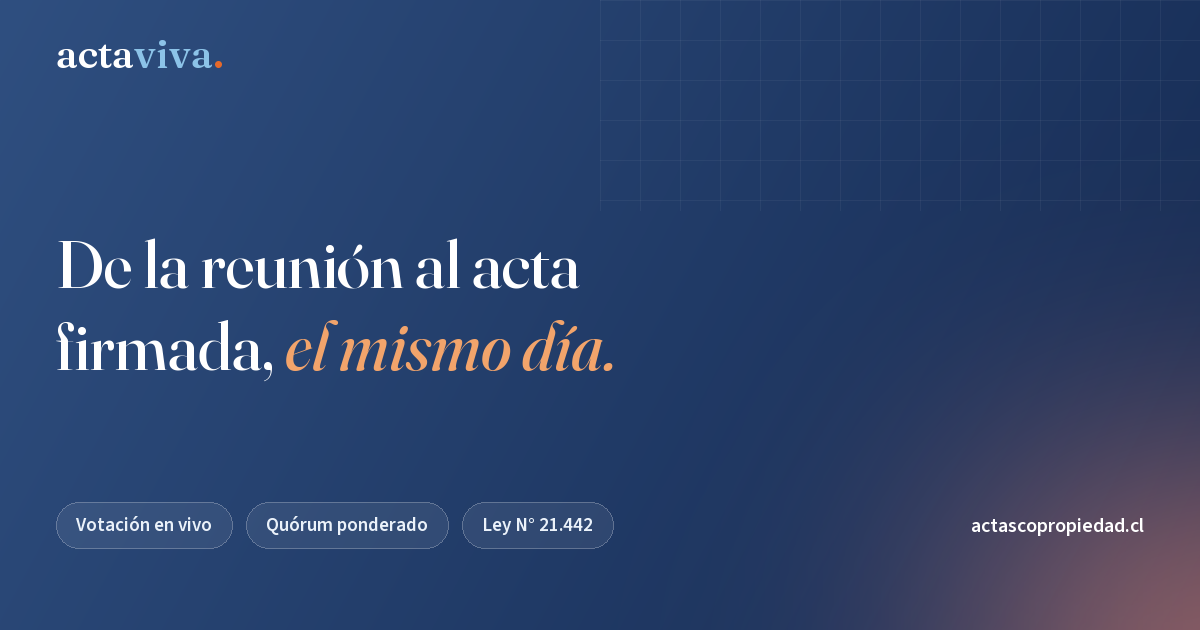
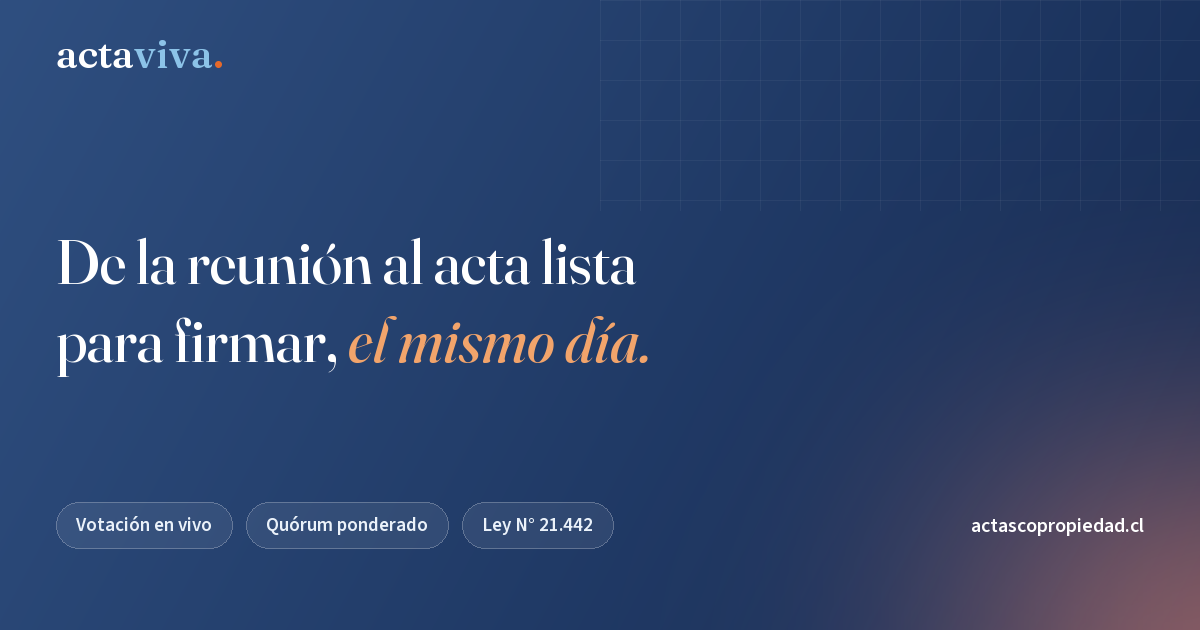
Precision juridica en los textos, tras revision legal externa
Doce correcciones de una revision juridica de los textos publicados
(Ley 21.442 y su Reglamento). El criterio comun: la plataforma genera
documentos y aplica reglas de calculo, pero no certifica legalidad ni
acredita identidades, y los textos no deben insinuar lo contrario.

- "acta firmada, el mismo dia" -> "acta LISTA PARA FIRMAR": la firma no
  depende de la plataforma, y la ley concede hasta 30 dias para ella.
- "redacta el acta conforme a la ley" -> "genera el acta con la
  estructura prevista en la Ley N° 21.442". Tambien en metadatos.
- "Solo votan los habiles" -> "Votan quienes figuran como habiles en el
  padron": esa calidad la acredita la administracion, no el sistema.
- "Firmas del comite y de la administracion" -> "Espacio para las firmas
  que exige la ley": la ley no exige la del administrador como regla.
- "Un documento, no un borrador" -> "Un acta lista para revisar y
  firmar": sin firma sigue pendiente de formalizacion.
- FAQ telematica: se agregan las condiciones del reglamento de
  copropiedad y las exigencias de identificacion del Reglamento.
- "vota con su RUT" -> "ingresa con su RUT y su voto se asocia al padron
  cargado por la administracion": el RUT asocia, no acredita.
- Ejemplo de la consulta: "51% de los derechos" -> "el quorum exigido
  para esta materia", para no insinuar una regla general.
- FAQ mas riesgosa: "¿El acta cumple con la Ley? Si" -> "¿Esta disenada
  conforme a la Ley? Si", con lo que el sistema realmente hace.
[…]

Changed region(s): [[0.0308, 0.5127, 0.555, 0.6032], [0.0617, 0.3921, 0.555, 0.4825]]

diff --git a/index.html b/index.html
@@ -4,7 +4,7 @@
 <head>
 <meta charset="UTF-8">
 <meta name="viewport" content="width=device-width, initial-scale=1.0">
-<meta name="description" content="Genere actas de asamblea de copropietarios conforme a la Ley N° 21.442, con votación en vivo desde el teléfono. Sin instalar nada.">
+<meta name="description" content="Genere actas de asamblea de copropietarios con la estructura prevista en la Ley N° 21.442, con votación en vivo desde el teléfono. Sin instalar nada.">
 <title>actaviva · Actas de asamblea y votación en vivo · Ley N° 21.442</title>
 <link rel="canonical" href="https://actascopropiedad.cl/">
 <meta name="theme-color" content="#1E3A6E">
@@ -14,7 +14,7 @@
 <meta property="og:locale" content="es_CL">
 <meta property="og:url" content="https://actascopropiedad.cl/">
 <meta property="og:title" content="actaviva · Actas de asamblea y votación en vivo">
-<meta property="og:description" content="Arme el acta de su asamblea, reciba los votos en vivo desde el teléfono y obtenga un documento listo para firmar. Conforme a la ley, sin instalar nada.">
+<meta property="og:description" content="Arme el acta de su asamblea, reciba los votos en vivo desde el teléfono y obtenga un documento listo para revisar y firmar. Sin instalar nada.">
 <meta property="og:image" content="https://actascopropiedad.cl/og.png">
 <meta property="og:image:width" content="1200">
 <meta property="og:image:height" content="630">
@@ -466,7 +466,7 @@
       "applicationCategory": "BusinessApplication",
       "operatingSystem": "Web",
       "inLanguage": "es-CL",
-      "description": "Genere actas de asamblea de copropietarios conforme a la Ley N° 21.442, con votación en vivo desde el teléfono. Sin instalar nada.",
+      "description": "Genere actas de asamblea de copropietarios con la estructura prevista en la Ley N° 21.442, con votación en vivo desde el teléfono. Sin instalar nada.",
       "offers": [
         { "@type": "Offer", "name": "Acta de asamblea con votación en vivo", "price": "14990", "priceCurrency": "CLP", "priceValidUntil": "2027-12-31" },
         { "@type": "Offer", "name": "Consulta por escrito", "price": "7990", "priceCurrency": "CLP", "priceValidUntil": "2027-12-31" }
@@ -476,9 +476,9 @@
       "@type": "FAQPage",
       "mainEntity": [
         { "@type": "Question", "name": "¿Necesito instalar algo o crear una cuenta?", "acceptedAnswer": { "@type": "Answer", "text": "No hay nada que instalar: funciona en el navegador, pero sí necesita una cuenta. Se crea en un minuto: escribe su correo, le llega un código y listo. También puede entrar con su cuenta de Google. La cuenta guarda su avance y le permite volver a sus asambleas." } },
-        { "@type": "Question", "name": "¿Cómo votan los copropietarios?", "acceptedAnswer": { "@type": "Answer", "text": "Usted proyecta un código QR. Cada copropietario entra desde su teléfono, se identifica con su RUT y vota; el resultado se calcula ponderado por los derechos de cada unidad. Solo votan quienes están hábiles." } },
-        { "@type": "Question", "name": "¿Es seguro? ¿Quién ve mis datos?", "acceptedAnswer": { "@type": "Answer", "text": "Su acta se guarda en su cuenta y solo usted puede verla: la restricción está en la base de datos, fila por fila. Los datos de la votación en vivo viajan cifrados y se borran al terminar la asamblea." } },
-        { "@type": "Question", "name": "¿El acta cumple con la Ley N° 21.442?", "acceptedAnswer": { "@type": "Answer", "text": "Sí. El sistema aplica el quórum, las mayorías y los plazos de la ley vigente, y entrega un documento listo para firmar." } },
+        { "@type": "Question", "name": "¿Cómo votan los copropietarios?", "acceptedAnswer": { "@type": "Answer", "text": "Usted proyecta un código QR. Cada participante habilitado ingresa con su RUT y su voto se asocia al padrón cargado por la administración; el resultado se calcula ponderado por los derechos de cada unidad. Votan quienes figuran como hábiles en el padrón." } },
+        { "@type": "Question", "name": "¿Es seguro? ¿Quién ve mis datos?", "acceptedAnswer": { "@type": "Answer", "text": "Su acta se guarda en su cuenta y solo usted puede verla: la restricción está en la base de datos, fila por fila. Los datos de la votación en vivo viajan cifrados; la sala se elimina al cerrarla y, en todo caso, dentro de 48 horas." } },
+        { "@type": "Question", "name": "¿El acta está diseñada conforme a la Ley N° 21.442?", "acceptedAnswer": { "@type": "Answer", "text": "Sí. El sistema aplica los quórums y mayorías según la materia seleccionada y genera el documento a partir de los antecedentes ingresados, listo para revisar y firmar." } },
         { "@type": "Question", "name": "¿Cuánto cuesta?", "acceptedAnswer": { "@type": "Answer", "text": "Acta de asamblea: $14.990 por asamblea, con la votación en vivo incluida. Consulta por escrito: $7.990 por consulta. Acta de reunión del comité: gratis. Impuestos incluidos; sin mensualidad ni suscripción, se paga solo cuando se usa." } }
       ]
     }
@@ -513,8 +513,8 @@
   <div class="wrap hero-inner">
     <div class="hero-copy">
       <span class="hero-eyebrow reveal in">Ley N° 21.442<span class="eb-largo"> · Copropiedad Inmobiliaria</span></span>
-      <h1 class="reveal in">De la reunión al acta<br>firmada, <em>el mismo día.</em></h1>
-      <p class="lead reveal in d1">Usted dirige la asamblea con tranquilidad. El sistema lleva el quórum, cuenta los votos ponderados por derechos y redacta el acta conforme a la ley.</p>
+      <h1 class="reveal in">De la reunión al acta<br>lista para firmar, <em>el mismo día.</em></h1>
+      <p class="lead reveal in d1">Usted dirige la asamblea con tranquilidad. El sistema lleva el quórum, cuenta los votos ponderados por derechos y genera el acta con la estructura prevista en la Ley N° 21.442.</p>
       <div class="hero-cta reveal in d2">
         <a class="btn btn-primary" href="/acta">Comenzar mi acta</a>
         <a class="btn btn-light" href="#como">Ver cómo funciona</a>
@@ -553,9 +553,9 @@
       <div class="vista-copy reveal">
         <span class="eyebrow">Incluida en el acta</span>
         <h2 id="tit-votacion">Nadie cuenta manos <em>levantadas.</em></h2>
-        <p>Proyecte el código QR. Cada copropietario vota desde su asiento con su RUT, el resultado se pondera por derechos al instante y pasa directo al acta.</p>
+        <p>Proyecte el código QR. Cada participante habilitado ingresa con su RUT, su voto se asocia al padrón cargado por la administración y el resultado se pondera por derechos al instante, directo al acta.</p>
         <a class="btn btn-primary" href="/acta">Probar la votación</a>
-        <small class="vista-meta"><span>Solo votan los hábiles</span> <span>Presencial, telemática o mixta</span> <span>Los datos se borran al terminar</span></small>
+        <small class="vista-meta"><span>Votan quienes figuran como hábiles en el padrón</span> <span>Presencial, telemática o mixta</span> <span>La sala se elimina al cerrarla, y en todo caso a las 48 horas</span></small>
       </div>
       <div class="vista-stage reveal d1">
         <div class="vv-panel" aria-hidden="true">
@@ -600,12 +600,12 @@
     <div class="doc-grid">
       <div class="reveal">
         <span class="eyebrow">Esto se lleva</span>
-        <h2 style="margin-bottom:16px">Un documento, <em>no un borrador.</em></h2>
+        <h2 style="margin-bottom:16px">Un acta lista <em>para revisar y firmar.</em></h2>
         <p class="doc-intro">El acta se arma mientras avanza la reunión y queda redactada con la estructura que exige la ley. Usted la revisa, la imprime y la firma.</p>
         <ul class="doc-lista">
           <li><svg aria-hidden="true" viewBox="0 0 24 24"><path d="M20 6L9 17l-5-5"/></svg>Asistencia, derechos y quórum ya calculados</li>
           <li><svg aria-hidden="true" viewBox="0 0 24 24"><path d="M20 6L9 17l-5-5"/></svg>Cada acuerdo con su resultado y su responsable</li>
-          <li><svg aria-hidden="true" viewBox="0 0 24 24"><path d="M20 6L9 17l-5-5"/></svg>Firmas del comité y de la administración</li>
+          <li><svg aria-hidden="true" viewBox="0 0 24 24"><path d="M20 6L9 17l-5-5"/></svg>Espacio para las firmas que exige la ley</li>
         </ul>
         <a class="btn btn-primary" href="/acta" style="margin-top:26px">Comenzar mi acta</a>
       </div>
@@ -643,7 +643,7 @@
           <div class="v-tally"><i class="vt vt1"></i><i class="vt vt2"></i><i class="vt vt3"></i></div>
         </div>
         <h3>Voten desde el teléfono</h3>
-        <p>Proyecte el QR. Cada uno vota con su RUT.</p>
+        <p>Proyecte el QR. Cada participante habilitado ingresa con su RUT.</p>
       </div>
       <div class="step reveal d2">
         <div class="st-scene" aria-hidden="true">
@@ -671,14 +671,14 @@
       <div class="cons-cuerpo">
         <span class="eyebrow">Consulta por escrito</span>
         <h2 id="tit-consulta">Tome acuerdos <em>sin depender de reunir a todos</em> al mismo tiempo</h2>
-        <p>La consulta por escrito permite que los copropietarios aprueben o rechacen una propuesta desde su correo registrado. Las respuestas se contabilizan según sus derechos en el condominio y el acuerdo se aprueba cuando alcanza el quórum exigido para esa materia.</p>
+        <p>La consulta por escrito permite que los copropietarios aprueben o rechacen una propuesta desde el correo registrado en el condominio. Las respuestas se contabilizan según sus derechos en el condominio y el acuerdo se aprueba cuando alcanza el quórum exigido para esa materia.</p>
         <p>Previamente, la propuesta debe presentarse en una sesión informativa, que no requiere quórum mínimo.</p>
         <div class="cons-cuenta">
           <div class="eyebrow" style="margin-bottom:12px">Cómo se cuenta</div>
           <div class="cons-fila"><span>Aprueban</span><b>62,50%</b></div>
           <div class="cons-fila"><span>Rechazan</span><b>12,50%</b></div>
           <div class="cons-fila"><span>Sin responder</span><b>25,00%</b></div>
-          <div class="cons-veredicto"><strong>Aprobado.</strong> Se alcanzó el 51% de los derechos que exige la materia.</div>
+          <div class="cons-veredicto"><strong>Aprobado.</strong> Se alcanzó el quórum exigido para esta materia.</div>
         </div>
         <div class="cons-precio">
           <div>
@@ -704,7 +704,7 @@
         <p style="font-size:16.5px;color:var(--tx2);line-height:1.65;margin:0;max-width:56ch">Los acuerdos del comité de administración también deben quedar registrados en el Libro de Actas. Ingrese lo tratado durante la reunión y obtenga el registro listo para incorporar al libro. <strong style="color:var(--ink)">Sin costo</strong> — solo necesita su cuenta.</p>
       </div>
       <div style="flex:0 0 auto">
-        <a class="btn btn-ink" href="/acta-comite">Escribir el acta del comité</a>
+        <a class="btn btn-ink" href="/acta-comite">Registrar acuerdos del comité</a>
       </div>
     </div>
   </div>
@@ -718,11 +718,11 @@
     </div>
     <div class="faq">
       <details class="reveal"><summary>¿Necesito instalar algo o crear una cuenta?</summary><div>No hay nada que instalar: funciona en el navegador. <strong>Cuenta sí necesita</strong>, y se crea en un minuto: escribe su correo, le llega un código y entra. También puede usar su cuenta de Google. La cuenta guarda su avance, le permite volver a sus asambleas y es donde le llega el comprobante.</div></details>
-      <details class="reveal"><summary>¿Cómo votan los copropietarios?</summary><div>Usted proyecta un QR; cada uno entra con su RUT y vota. El resultado se pondera por derechos al instante. Solo votan los hábiles.</div></details>
-      <details class="reveal"><summary>¿Es seguro? ¿Quién ve mis datos?</summary><div>Su acta se guarda en su cuenta y <strong>solo usted puede verla</strong>: la restricción está en la base de datos, fila por fila. Los datos de la votación viajan cifrados y se borran al terminar la asamblea. Está todo detallado en la <a href="/privacidad">declaración de privacidad</a>.</div></details>
-      <details class="reveal"><summary>¿Sirve para asambleas telemáticas o mixtas?</summary><div>Sí, funciona igual en asambleas presenciales, por videollamada o mixtas.</div></details>
-      <details class="reveal"><summary>¿El acta cumple con la Ley N° 21.442?</summary><div>Sí. Aplica el quórum, las mayorías y los plazos de la ley, y entrega el documento listo para firmar.</div></details>
-      <details class="reveal"><summary>¿Se puede acordar algo sin convocar a asamblea?</summary><div>Sí. El artículo 15 de la Ley N° 21.442 permite la <strong>consulta por escrito</strong>: se expone la propuesta en una sesión informativa previa, se envía la consulta a los correos del Registro de Copropietarios y se fija un plazo para responder. Queda aprobada cuando las respuestas a favor suman el porcentaje de derechos que la ley exige para esa materia. Tratándose de cambios al reglamento, desafectación de bienes comunes o cambio de destino, el acuerdo debe además ser certificado por un notario.</div></details>
+      <details class="reveal"><summary>¿Cómo votan los copropietarios?</summary><div>Usted proyecta un QR; cada participante habilitado ingresa con su RUT y su voto se asocia al padrón cargado por la administración. El resultado se pondera por derechos al instante. Votan quienes figuran como hábiles en el padrón.</div></details>
+      <details class="reveal"><summary>¿Es seguro? ¿Quién ve mis datos?</summary><div>Su acta se guarda en su cuenta y <strong>solo usted puede verla</strong>: la restricción está en la base de datos, fila por fila. Los datos de la votación viajan cifrados; la sala se elimina al cerrarla y, en todo caso, dentro de 48 horas. El acta queda en su cuenta hasta que usted la borre. Está todo detallado en la <a href="/privacidad">declaración de privacidad</a>.</div></details>
+      <details class="reveal"><summary>¿Sirve para asambleas telemáticas o mixtas?</summary><div>Sí. Puede utilizarse en asambleas presenciales, telemáticas o mixtas. En estas últimas deben cumplirse además las condiciones previstas en el reglamento de copropiedad y las exigencias de identificación del Reglamento de la Ley.</div></details>
+      <details class="reveal"><summary>¿El acta está diseñada conforme a la Ley N° 21.442?</summary><div>Sí. El sistema aplica los quórums y mayorías según la materia seleccionada y genera el documento a partir de los antecedentes ingresados, listo para revisar y firmar.</div></details>
+      <details class="reveal"><summary>¿Se puede acordar algo sin convocar a asamblea?</summary><div>Sí. El artículo 15 de la Ley N° 21.442 permite la <strong>consulta por escrito</strong>: se expone la propuesta en una sesión informativa previa, se envía la consulta a los correos del Registro de Copropietarios y se fija un plazo para responder. Queda aprobada cuando las respuestas a favor suman el porcentaje de derechos que la ley exige para esa materia. Cuando la consulta verse sobre las materias señaladas en la letra a) del N° 2 o en el N° 3 del artículo 15, el acuerdo deberá además reducirse a escritura pública.</div></details>
       <details class="reveal"><summary>¿Cuánto cuesta?</summary><div>
         <table class="precios">
           <tr><td>Acta de asamblea <span>incluye la votación en vivo</span></td><td><b>$14.990</b> por asamblea</td></tr>

diff --git a/privacidad.html b/privacidad.html
@@ -224,7 +224,7 @@
     <p class="lede">Qué datos le pedimos, para qué los usamos, con quién los compartimos, cuánto los guardamos y cómo puede pedirnos que los borremos. En preguntas concretas y sin letra chica.</p>
     <div class="meta">
       <span class="sello"><svg aria-hidden="true" viewBox="0 0 24 24" fill="none" stroke="currentColor" stroke-width="2.2" stroke-linecap="round" stroke-linejoin="round"><path d="M12 3l7 4v5c0 4-3 6.6-7 8-4-1.4-7-4-7-8V7z"/></svg>Ley N° 21.719</span>
-      <span>Versión 3 · vigente desde el 20 de agosto de 2026</span>
+      <span>Versión 4 · vigente desde el 27 de agosto de 2026 · preparada bajo la Ley N° 19.628 y los estándares de la Ley N° 21.719, que entra en vigencia el 1 de diciembre de 2026</span>
       <a href="#p14">Ver el historial de cambios</a>
     </div>
   </div>
@@ -234,7 +234,7 @@
     <ul>
       <li><svg aria-hidden="true" viewBox="0 0 24 24" fill="none" stroke="currentColor" stroke-width="2.4" stroke-linecap="round" stroke-linejoin="round"><path d="M20 6L9 17l-5-5"/></svg><span>El <strong>acta se guarda en su cuenta</strong>, con los nombres, RUT y votos que usted cargue. Solo usted la ve, y puede borrarla cuando quiera.</span></li>
       <li><svg aria-hidden="true" viewBox="0 0 24 24" fill="none" stroke="currentColor" stroke-width="2.4" stroke-linecap="round" stroke-linejoin="round"><path d="M20 6L9 17l-5-5"/></svg><span>De su cuenta guardamos <strong>su correo y sus compras</strong>. Nada más. No vendemos datos ni enviamos publicidad.</span></li>
-      <li><svg aria-hidden="true" viewBox="0 0 24 24" fill="none" stroke="currentColor" stroke-width="2.4" stroke-linecap="round" stroke-linejoin="round"><path d="M20 6L9 17l-5-5"/></svg><span>El padrón y los votos de una asamblea <strong>se borran al terminar</strong>, y de forma automática a las 48 horas.</span></li>
+      <li><svg aria-hidden="true" viewBox="0 0 24 24" fill="none" stroke="currentColor" stroke-width="2.4" stroke-linecap="round" stroke-linejoin="round"><path d="M20 6L9 17l-5-5"/></svg><span>El padrón y los votos de una asamblea <strong>se eliminan al cerrar la sala</strong> y, en todo caso, a las 48 horas.</span></li>
       <li><svg aria-hidden="true" viewBox="0 0 24 24" fill="none" stroke="currentColor" stroke-width="2.4" stroke-linecap="round" stroke-linejoin="round"><path d="M20 6L9 17l-5-5"/></svg><span>Puede pedirnos <strong>ver, corregir o borrar</strong> sus datos escribiendo a <a href="mailto:contacto@actascopropiedad.cl">contacto@actascopropiedad.cl</a>.</span></li>
     </ul>
   </div>
@@ -422,7 +422,7 @@
           <div class="det">
             <p>Es la situación normal de casi cualquier servicio en línea, pero eso no la vuelve invisible: constituye una <strong>transferencia internacional de datos</strong> y usted tiene derecho a saberlo antes de usar la plataforma.</p>
             <p>La transferencia se rige por los <strong>acuerdos de tratamiento de datos suscritos con cada proveedor</strong>, que los obligan contractualmente a un estándar de protección equivalente al que exige la ley chilena, a tratar los datos solo bajo nuestras instrucciones y a devolverlos o eliminarlos al terminar el servicio.</p>
-            <p class="nota">El documento del acta no se transfiere a ninguna parte, sencillamente porque nunca sale de su equipo.</p>
+            <p class="nota">El archivo que usted descarga (el HTML del acta) se genera y queda en su equipo. El borrador que se guarda en su cuenta para poder retomarlo desde otro dispositivo vive en los servidores descritos aquí, con las mismas reglas.</p>
           </div></details>
         </section>
 
@@ -444,7 +444,7 @@
               </tbody>
             </table></div>
             <h3>Por qué la consulta por escrito es distinta</h3>
-            <p>Ahí el <strong>texto del correo es la prueba de la manifestación de voluntad</strong>. Sin ese texto no se puede acreditar el acuerdo ante notario ni defenderlo si alguien lo impugna. Borrarlo a las 48 horas dejaría a la comunidad sin respaldo.</p>
+            <p>Ahí el <strong>texto del correo es la prueba de la manifestación de voluntad</strong>. Sin ese texto no se puede acreditar el acuerdo —incluida su reducción a escritura pública cuando la materia lo exige— ni defenderlo si alguien lo impugna. Borrarlo a las 48 horas dejaría a la comunidad sin respaldo.</p>
           </div></details>
         </section>
 

diff --git a/cuenta-demo.html b/cuenta-demo.html
@@ -273,7 +273,7 @@
           <article class="sv sv-principal" style="margin-top:26px">
             <span class="ic"><svg aria-hidden="true" viewBox="0 0 24 24" fill="none" stroke="currentColor" stroke-width="2" stroke-linecap="round" stroke-linejoin="round"><rect x="3" y="5" width="18" height="14" rx="2"/><path d="M3 7l9 6 9-6"/></svg></span>
             <h3>Consulta por escrito</h3>
-            <p>Para acordar algo <strong>sin convocar a asamblea</strong>, como permite el artículo 15 de la Ley N° 21.442: se cortó una cañería, hay que aprobar un gasto y no se puede esperar. Cada copropietario responde por correo desde su casilla del Registro y el sistema arma el expediente con el cómputo ponderado por derechos. Sirve para cualquier materia: solo las del numeral 3 —reglamento, bienes comunes, cambio de destino— necesitan además la certificación de un notario.</p>
+            <p>Para acordar algo <strong>sin convocar a asamblea</strong>, como permite el artículo 15 de la Ley N° 21.442: se cortó una cañería, hay que aprobar un gasto y no se puede esperar. Cada copropietario responde por correo desde su casilla del Registro y el sistema arma el expediente con el cómputo ponderado por derechos. Sirve para cualquier materia; cuando recae en las señaladas en la letra a) del N° 2 o en el N° 3 del artículo 15, el acuerdo deberá además reducirse a escritura pública.</p>
             <div class="pie">
               <span class="precio"><b>$7.990</b> por consulta</span>
               <span id="p-cta-consulta"><a class="btn btn-p" href="/consulta/">Pagar y crear consulta</a></span>
@@ -287,7 +287,7 @@
             <p>El comité de administración también sesiona y acuerda cosas, y el artículo 17 de la Ley N° 21.442 manda dejarlas en un libro de actas. Escriba el acta mientras la reunión ocurre —quién asistió, qué se acordó, quién quedó a cargo— y llévese el documento numerado, listo para imprimir y firmar.</p>
             <div class="pie">
               <span class="precio"><b>Gratis</b> para los comités</span>
-              <span><a class="btn btn-p" href="/acta-comite">Escribir el acta</a></span>
+              <span><a class="btn btn-p" href="/acta-comite">Registrar acuerdos</a></span>
             </div>
           </article>
         </section>

diff --git a/cuenta.html b/cuenta.html
@@ -271,7 +271,7 @@
           <article class="sv sv-principal" style="margin-top:26px">
             <span class="ic"><svg aria-hidden="true" viewBox="0 0 24 24" fill="none" stroke="currentColor" stroke-width="2" stroke-linecap="round" stroke-linejoin="round"><rect x="3" y="5" width="18" height="14" rx="2"/><path d="M3 7l9 6 9-6"/></svg></span>
             <h3>Consulta por escrito</h3>
-            <p>Para acordar algo <strong>sin convocar a asamblea</strong>, como permite el artículo 15 de la Ley N° 21.442: se cortó una cañería, hay que aprobar un gasto y no se puede esperar. Cada copropietario responde por correo desde su casilla del Registro y el sistema arma el expediente con el cómputo ponderado por derechos. Sirve para cualquier materia: solo las del numeral 3 —reglamento, bienes comunes, cambio de destino— necesitan además la certificación de un notario.</p>
+            <p>Para acordar algo <strong>sin convocar a asamblea</strong>, como permite el artículo 15 de la Ley N° 21.442: se cortó una cañería, hay que aprobar un gasto y no se puede esperar. Cada copropietario responde por correo desde su casilla del Registro y el sistema arma el expediente con el cómputo ponderado por derechos. Sirve para cualquier materia; cuando recae en las señaladas en la letra a) del N° 2 o en el N° 3 del artículo 15, el acuerdo deberá además reducirse a escritura pública.</p>
             <div class="pie">
               <span class="precio"><b>$7.990</b> por consulta</span>
               <span id="p-cta-consulta"><a class="btn btn-p" href="/consulta/">Pagar y crear consulta</a></span>
@@ -285,7 +285,7 @@
             <p>El comité de administración también sesiona y acuerda cosas, y el artículo 17 de la Ley N° 21.442 manda dejarlas en un libro de actas. Escriba el acta mientras la reunión ocurre —quién asistió, qué se acordó, quién quedó a cargo— y llévese el documento numerado, listo para imprimir y firmar.</p>
             <div class="pie">
               <span class="precio"><b>Gratis</b> para los comités</span>
-              <span><a class="btn btn-p" href="/acta-comite">Escribir el acta</a></span>
+              <span><a class="btn btn-p" href="/acta-comite">Registrar acuerdos</a></span>
             </div>
           </article>
         </section>

diff --git a/terminos.html b/terminos.html
@@ -217,11 +217,11 @@
           <p class="simple"><b>En simple</b>Al usar el sitio o crear una cuenta, acepta estas condiciones.</p>
           <div class="ficha">
             <b class="t">El proveedor</b>
-            <p><b>Instrumenta SpA</b>, sociedad constituida en Chile, que opera el sitio <strong>actascopropiedad.cl</strong> bajo la marca <strong>actaviva</strong>.</p>
+            <p><b>Instrumenta SpA</b> (en formación), que opera el sitio <strong>actascopropiedad.cl</strong> bajo la marca <strong>actaviva</strong>.</p>
             <p>Contacto: <a href="mailto:contacto@actascopropiedad.cl">contacto@actascopropiedad.cl</a></p>
           </div>
           <!-- COMPLETAR ANTES DE PUBLICAR: RUT y domicilio de Instrumenta SpA -->
-          <p class="todo"><b>Pendiente de publicación:</b> el RUT y el domicilio de la sociedad se incorporan aquí una vez constituida.</p>
+          <p class="todo"><b>Pendiente de publicación:</b> la razón social definitiva, el RUT y el domicilio se incorporarán aquí al quedar constituida la sociedad.</p>
           <p>Estos términos rigen el uso del generador de actas, de la votación en vivo y de la consulta por escrito. Al usar cualquiera de ellos, o al crear una cuenta, usted declara que los leyó y los acepta. Si no está de acuerdo con alguna cláusula, no use el servicio.</p>
           <p>La <a href="/privacidad">declaración de privacidad</a> forma parte de estos términos.</p>
         </section>

diff --git a/js/consulta-1.js b/js/consulta-1.js
@@ -519,8 +519,8 @@ async function generarDocumento(btn){
       '<div class="firma"><b>Administrador</b>Nombre y firma</div>' +
       '</div>' +
       '<p style="margin-top:26px;font-size:9pt;color:#5C6168;">Documento generado el ' + fmtFecha(new Date().toISOString()) +
-      '. Tratándose de las materias del numeral 3 del artículo 15 de la Ley N° 21.442, la adopción del acuerdo ' +
-      'por esta vía debe ser certificada por un notario.</p>' +
+      '. Cuando el acuerdo verse sobre las materias señaladas en la letra a) del N° 2 o en el N° 3 del ' +
+      'artículo 15 de la Ley N° 21.442, deberá además reducirse a escritura pública.</p>' +
       '</body></html>';
 
     const w = window.open('', '_blank');

diff --git a/js/panel-1.js b/js/panel-1.js
@@ -345,7 +345,7 @@
         if(!l.length){
           host.innerHTML = vacio('El comité aún no tiene actas',
             'Es gratis: escriba la de su próxima reunión y quedará numerada al cerrarla.',
-            { href:'/acta-comite', txt:'Escribir la primera' });
+            { href:'/acta-comite', txt:'Registrar los primeros acuerdos' });
           return;
         }
         host.innerHTML = lista(l.map(function(a){
